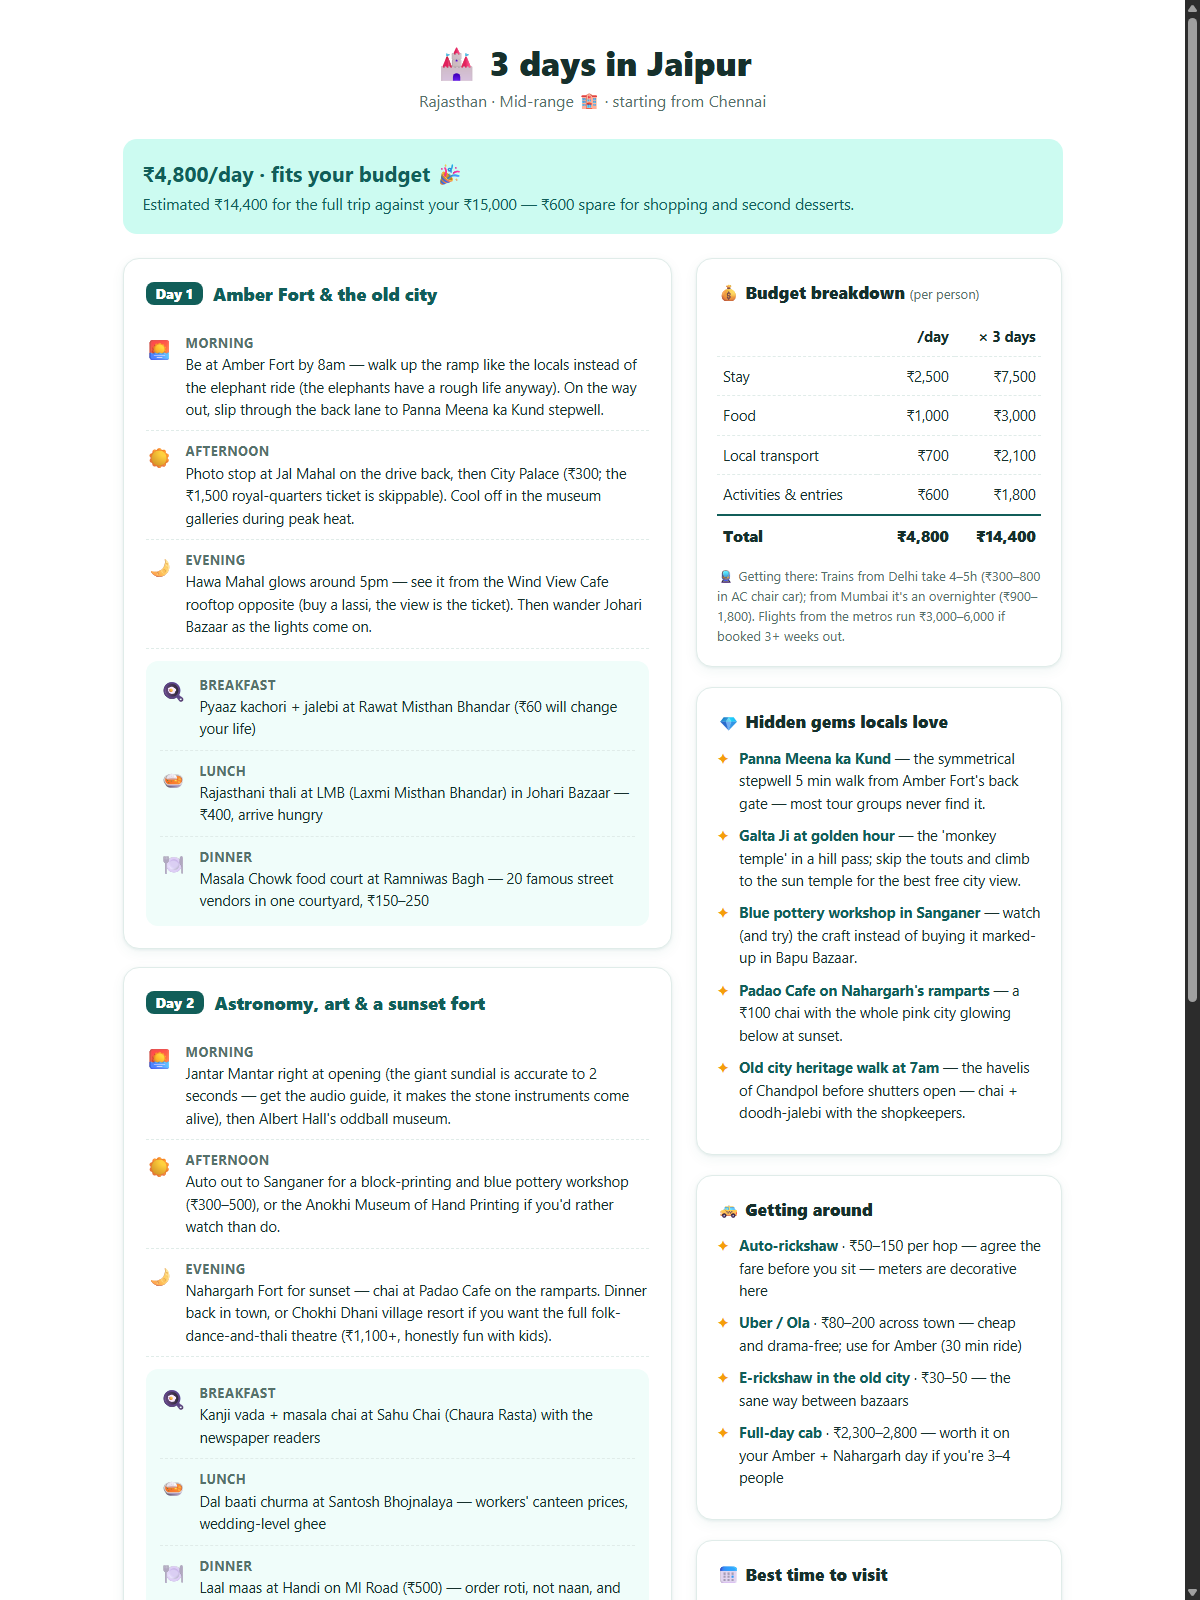
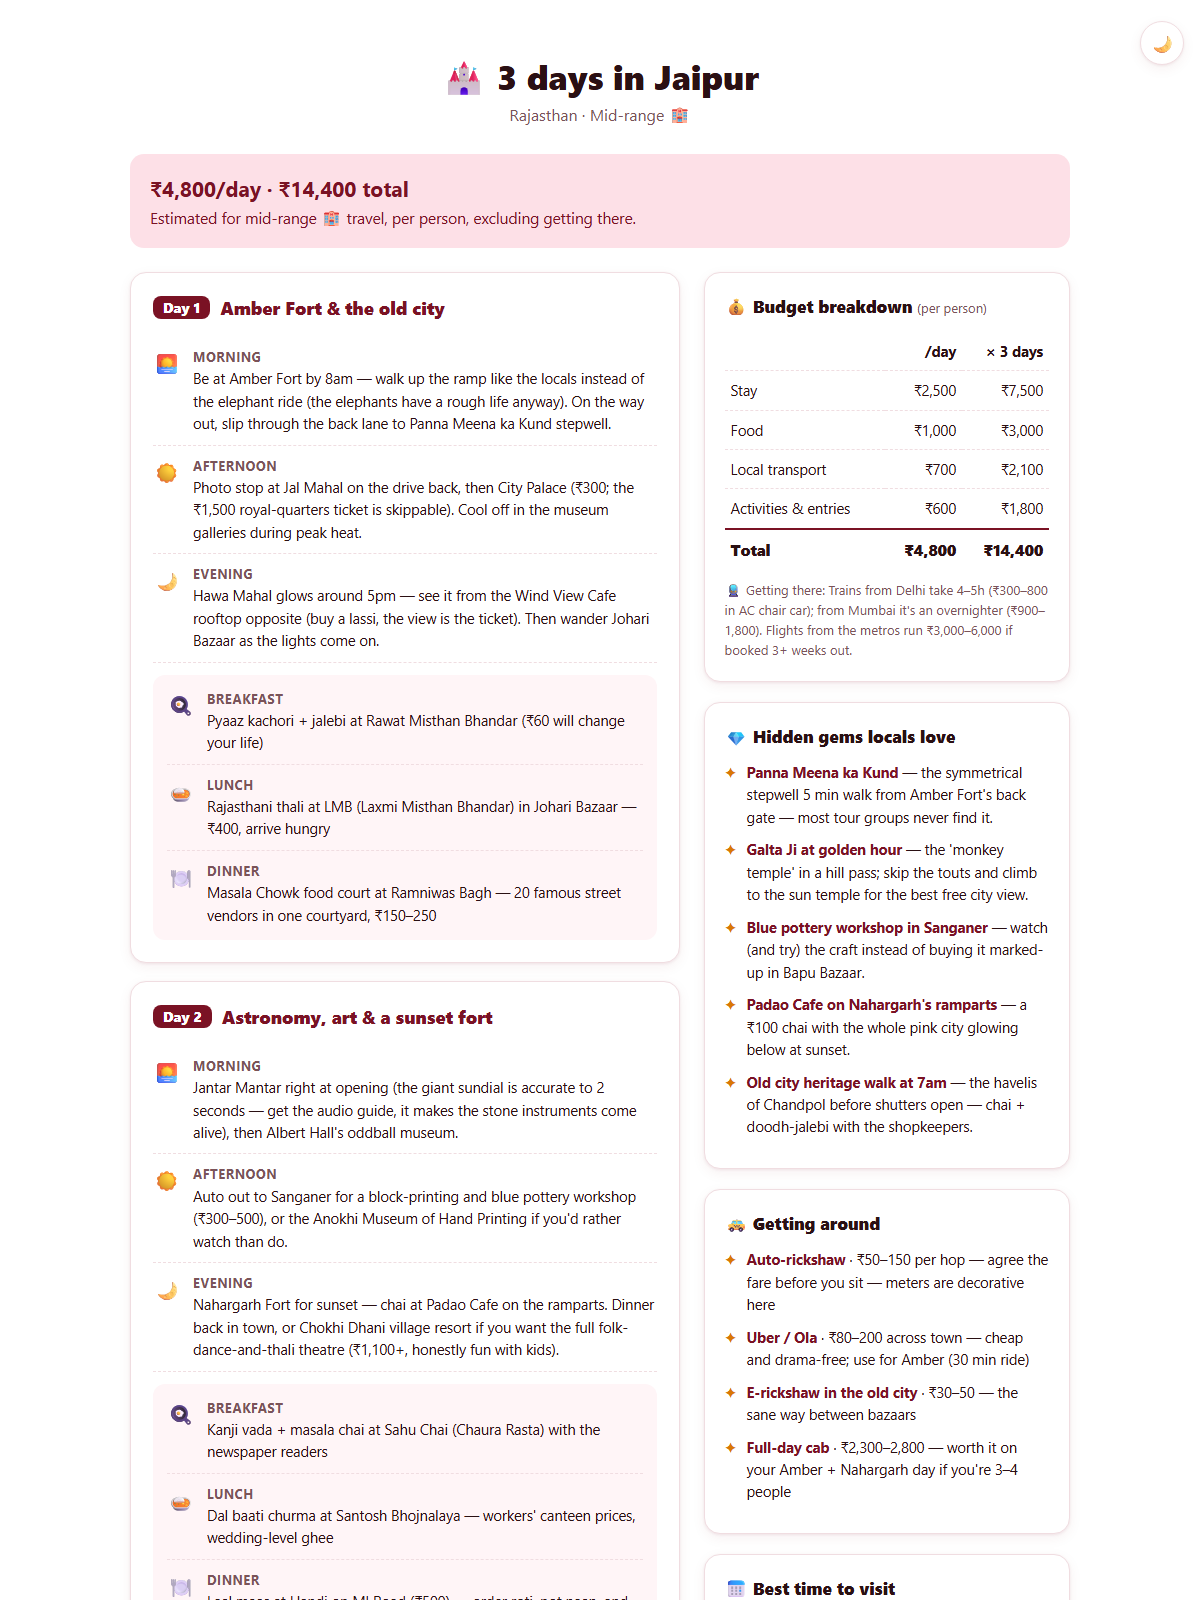
Rework theme to maroon and add light/dark mode toggle
Renames the color system to a maroon palette, introduces theme-aware
CSS variables (bg/card-bg/panel-bg) so cards and inputs adapt, and adds
a persisted light/dark toggle that defaults to system preference.
Updates README and screenshots to match.

diff --git a/India trip planner/index.html b/India trip planner/index.html
@@ -6,62 +6,89 @@
 <title>Safar Saathi — India Trip Planner</title>
 <style>
   :root {
-    --teal-800: #115e59;
-    --teal-600: #0d9488;
-    --teal-100: #ccfbf1;
-    --teal-50: #f0fdfa;
-    --saffron: #f59e0b;
-    --saffron-100: #fef3c7;
-    --saffron-800: #92400e;
+    --maroon-900: #4c0519;
+    --maroon-800: #7a1224;
+    --maroon-600: #b3123d;
+    --maroon-100: #fde0e7;
+    --maroon-50: #fff5f7;
+    --saffron: #d97706;
+    --saffron-100: #fef9c3;
+    --saffron-800: #854d0e;
     --red-100: #fee2e2;
     --red-800: #991b1b;
-    --ink: #16302c;
-    --muted: #55716b;
-    --border: #e0ece9;
-    --card-shadow: 0 1px 3px rgba(17, 94, 89, 0.08), 0 4px 14px rgba(17, 94, 89, 0.06);
+    --ink: #2a1013;
+    --muted: #7a5359;
+    --border: #f0dde1;
+    --bg: #ffffff;
+    --card-bg: #ffffff;
+    --panel-bg: #fdf8f9;
+    --card-shadow: 0 1px 3px rgba(122, 18, 36, 0.08), 0 4px 14px rgba(122, 18, 36, 0.06);
+  }
+  :root[data-theme="dark"] {
+    --maroon-900: #2a0810;
+    --maroon-800: #e11d48;
+    --maroon-600: #fb7185;
+    --maroon-100: #4a1420;
+    --maroon-50: #3a0f18;
+    --saffron: #f59e0b;
+    --saffron-100: #4a3510;
+    --saffron-800: #fde68a;
+    --red-100: #4a1616;
+    --red-800: #fca5a5;
+    --ink: #f3e4e7;
+    --muted: #c9a3ab;
+    --border: #4a2830;
+    --bg: #150a0c;
+    --card-bg: #1f1013;
+    --panel-bg: #241417;
+    --card-shadow: 0 1px 3px rgba(0, 0, 0, 0.4), 0 4px 14px rgba(0, 0, 0, 0.3);
   }
   * { box-sizing: border-box; margin: 0; padding: 0; }
-  html { scroll-behavior: smooth; }
-  body { font-family: -apple-system, BlinkMacSystemFont, "Segoe UI", Roboto, "Helvetica Neue", Arial, sans-serif; background: #fff; color: var(--ink); line-height: 1.55; }
+  html { scroll-behavior: smooth; color-scheme: light; }
+  html[data-theme="dark"] { color-scheme: dark; }
+  body { font-family: -apple-system, BlinkMacSystemFont, "Segoe UI", Roboto, "Helvetica Neue", Arial, sans-serif; background: var(--bg); color: var(--ink); line-height: 1.55; transition: background-color .2s ease, color .2s ease; }
   .wrap { max-width: 980px; margin: 0 auto; padding: 0 20px; }
 
-  header.hero { padding: 56px 0 40px; text-align: center; background: linear-gradient(180deg, var(--teal-50) 0%, #fff 100%); }
+  .theme-toggle { position: fixed; top: 16px; right: 16px; z-index: 20; width: 44px; height: 44px; border-radius: 999px; background: var(--card-bg); border: 1.5px solid var(--border); box-shadow: var(--card-shadow); font-size: 19px; display: flex; align-items: center; justify-content: center; transition: background-color .2s ease, border-color .2s ease; }
+  .theme-toggle:hover { background: var(--maroon-50); }
+
+  header.hero { padding: 56px 0 40px; text-align: center; background: linear-gradient(180deg, var(--maroon-50) 0%, var(--bg) 100%); transition: background .2s ease; }
   .hero .logo { font-size: 44px; }
   .hero h1 { font-size: clamp(28px, 5vw, 42px); font-weight: 800; letter-spacing: -0.02em; margin-top: 8px; }
-  .hero h1 em { font-style: normal; color: var(--teal-800); }
+  .hero h1 em { font-style: normal; color: var(--maroon-800); }
   .hero p.tag { max-width: 580px; margin: 14px auto 0; color: var(--muted); font-size: 17px; }
   .hero .cta { margin-top: 26px; }
 
   button { font: inherit; cursor: pointer; border: none; }
-  .btn-primary { background: var(--teal-800); color: #fff; font-weight: 700; padding: 14px 28px; border-radius: 12px; font-size: 17px; min-height: 48px; box-shadow: 0 2px 8px rgba(17,94,89,.25); transition: background .15s, transform .1s; }
-  .btn-primary:hover { background: var(--teal-600); }
+  .btn-primary { background: var(--maroon-800); color: #fff; font-weight: 700; padding: 14px 28px; border-radius: 12px; font-size: 17px; min-height: 48px; box-shadow: 0 2px 8px rgba(122,18,36,.35); transition: background .15s, transform .1s; }
+  .btn-primary:hover { background: var(--maroon-600); }
   .btn-primary:active { transform: scale(.98); }
-  .btn-ghost { background: #fff; color: var(--teal-800); font-weight: 600; padding: 10px 18px; border-radius: 10px; border: 1.5px solid var(--teal-800); min-height: 44px; }
-  .btn-ghost:hover { background: var(--teal-50); }
+  .btn-ghost { background: var(--card-bg); color: var(--maroon-800); font-weight: 600; padding: 10px 18px; border-radius: 10px; border: 1.5px solid var(--maroon-800); min-height: 44px; }
+  .btn-ghost:hover { background: var(--maroon-50); }
 
   section { padding: 36px 0; }
-  .card { background: #fff; border: 1px solid var(--border); border-radius: 16px; box-shadow: var(--card-shadow); padding: 26px 22px; }
+  .card { background: var(--card-bg); border: 1px solid var(--border); border-radius: 16px; box-shadow: var(--card-shadow); padding: 26px 22px; transition: background-color .2s ease, border-color .2s ease; }
   .card h2 { font-size: 22px; font-weight: 800; margin-bottom: 4px; }
   .card p.sub { color: var(--muted); font-size: 14.5px; margin-bottom: 20px; }
   .field { margin-bottom: 22px; }
   .field > label { display: block; font-weight: 700; font-size: 15px; margin-bottom: 8px; }
   .hint { font-size: 13px; color: var(--muted); margin-top: 6px; }
 
-  input[type="text"], input[type="number"] { padding: 12px 14px; font-size: 16px; border: 1.5px solid var(--border); border-radius: 12px; outline: none; }
-  input:focus { border-color: var(--teal-600); box-shadow: 0 0 0 3px var(--teal-100); }
+  input[type="text"], input[type="number"], input[type="password"] { padding: 12px 14px; font-size: 16px; border: 1.5px solid var(--border); border-radius: 12px; outline: none; background: var(--card-bg); color: var(--ink); }
+  input:focus { border-color: var(--maroon-600); box-shadow: 0 0 0 3px var(--maroon-100); }
   #city-input, #from-input { width: 100%; max-width: 420px; }
   #budget-input { width: 180px; }
 
   .stepper { display: inline-flex; align-items: center; border: 1.5px solid var(--border); border-radius: 12px; overflow: hidden; }
-  .stepper button { width: 48px; height: 48px; background: var(--teal-50); color: var(--teal-800); font-size: 22px; font-weight: 700; }
-  .stepper button:hover { background: var(--teal-100); }
+  .stepper button { width: 48px; height: 48px; background: var(--maroon-50); color: var(--maroon-800); font-size: 22px; font-weight: 700; }
+  .stepper button:hover { background: var(--maroon-100); }
   .stepper .val { width: 64px; text-align: center; font-size: 20px; font-weight: 800; }
 
   .style-chips, .city-chips { display: flex; flex-wrap: wrap; gap: 8px; margin-top: 10px; }
-  .style-chips button, .city-chips button { background: #fff; border: 1.5px solid var(--border); color: var(--ink); padding: 10px 16px; border-radius: 999px; font-size: 14.5px; font-weight: 600; min-height: 44px; }
-  .style-chips button.on { background: var(--teal-800); border-color: var(--teal-800); color: #fff; }
-  .city-chips button { border-style: dashed; border-color: var(--teal-600); color: var(--teal-800); }
-  .city-chips button:hover, .style-chips button:hover:not(.on) { background: var(--teal-50); }
+  .style-chips button, .city-chips button { background: var(--card-bg); border: 1.5px solid var(--border); color: var(--ink); padding: 10px 16px; border-radius: 999px; font-size: 14.5px; font-weight: 600; min-height: 44px; }
+  .style-chips button.on { background: var(--maroon-800); border-color: var(--maroon-800); color: #fff; }
+  .city-chips button { border-style: dashed; border-color: var(--maroon-600); color: var(--maroon-800); }
+  .city-chips button:hover, .style-chips button:hover:not(.on) { background: var(--maroon-50); }
 
   .notice { background: var(--saffron-100); color: var(--saffron-800); border-radius: 10px; padding: 12px 14px; font-size: 14px; margin: 14px 0; }
   .notice.err { background: var(--red-100); color: var(--red-800); }
@@ -72,53 +99,55 @@
   .trip-head h2 { font-size: clamp(24px, 4vw, 34px); font-weight: 800; }
   .trip-head p { color: var(--muted); }
   .banner { border-radius: 14px; padding: 18px 20px; margin-bottom: 24px; font-size: 15.5px; }
-  .banner.ok { background: var(--teal-100); color: var(--teal-800); }
+  .banner.ok { background: var(--maroon-100); color: var(--maroon-800); }
   .banner.over { background: var(--red-100); color: var(--red-800); }
   .banner strong { font-size: 21px; display: block; margin-bottom: 2px; }
 
-  .day-card { background: #fff; border: 1px solid var(--border); border-radius: 16px; box-shadow: var(--card-shadow); padding: 22px; margin-bottom: 18px; }
-  .day-card h3 { font-size: 18px; font-weight: 800; color: var(--teal-800); margin-bottom: 14px; }
-  .day-card h3 .dnum { background: var(--teal-800); color: #fff; border-radius: 8px; padding: 2px 10px; margin-right: 10px; font-size: 14px; vertical-align: 2px; }
+  .day-card { background: var(--card-bg); border: 1px solid var(--border); border-radius: 16px; box-shadow: var(--card-shadow); padding: 22px; margin-bottom: 18px; }
+  .day-card h3 { font-size: 18px; font-weight: 800; color: var(--maroon-800); margin-bottom: 14px; }
+  .day-card h3 .dnum { background: var(--maroon-800); color: #fff; border-radius: 8px; padding: 2px 10px; margin-right: 10px; font-size: 14px; vertical-align: 2px; }
   .slot { display: flex; gap: 12px; padding: 10px 0; border-bottom: 1px dashed var(--border); }
   .slot:last-child { border-bottom: none; }
   .slot .ico { font-size: 20px; flex: 0 0 28px; text-align: center; }
   .slot .txt b { display: block; font-size: 13px; text-transform: uppercase; letter-spacing: .04em; color: var(--muted); }
   .slot .txt { font-size: 14.5px; }
-  .meals { background: var(--teal-50); border-radius: 12px; padding: 4px 14px; margin-top: 12px; }
+  .meals { background: var(--maroon-50); border-radius: 12px; padding: 4px 14px; margin-top: 12px; }
 
   .results-grid { display: grid; grid-template-columns: 1fr; gap: 24px; }
   @media (min-width: 820px) { .results-grid { grid-template-columns: 3fr 2fr; align-items: start; } }
-  .side-card { background: #fff; border: 1px solid var(--border); border-radius: 16px; box-shadow: var(--card-shadow); padding: 20px; margin-bottom: 20px; }
+  .side-card { background: var(--card-bg); border: 1px solid var(--border); border-radius: 16px; box-shadow: var(--card-shadow); padding: 20px; margin-bottom: 20px; }
   .side-card h3 { font-size: 17px; font-weight: 800; margin-bottom: 12px; }
   .side-card ul { list-style: none; }
   .side-card li { margin-bottom: 10px; font-size: 14.5px; padding-left: 22px; position: relative; }
   .side-card li::before { content: "✦"; position: absolute; left: 0; color: var(--saffron); }
-  .side-card li b { color: var(--teal-800); }
+  .side-card li b { color: var(--maroon-800); }
   .side-card.avoid li::before { content: "⚠"; }
 
   table.budget { width: 100%; border-collapse: collapse; font-size: 14.5px; }
   table.budget td, table.budget th { padding: 8px 6px; text-align: right; border-bottom: 1px dashed var(--border); }
   table.budget td:first-child, table.budget th:first-child { text-align: left; }
-  table.budget tr.total td { font-weight: 800; border-top: 2px solid var(--teal-800); border-bottom: none; font-size: 15.5px; }
+  table.budget tr.total td { font-weight: 800; border-top: 2px solid var(--maroon-800); border-bottom: none; font-size: 15.5px; }
   .table-scroll { overflow-x: auto; }
 
   .result-actions { display: flex; gap: 10px; margin-top: 8px; flex-wrap: wrap; }
 
-  details.settings { margin-top: 28px; border: 1px solid var(--border); border-radius: 12px; padding: 14px 18px; background: #fafcfb; }
+  details.settings { margin-top: 28px; border: 1px solid var(--border); border-radius: 12px; padding: 14px 18px; background: var(--panel-bg); }
   details.settings summary { cursor: pointer; font-weight: 700; font-size: 14.5px; color: var(--muted); }
   details.settings .inner { margin-top: 14px; }
   details.settings input { width: 100%; max-width: 420px; padding: 10px 12px; border: 1.5px solid var(--border); border-radius: 10px; font-size: 14px; }
   details.settings .row { display: flex; gap: 8px; margin-top: 10px; flex-wrap: wrap; }
   .key-status { font-size: 13px; margin-top: 8px; font-weight: 600; }
-  .key-status.on { color: var(--teal-800); }
+  .key-status.on { color: var(--maroon-800); }
   .key-status.off { color: var(--muted); }
 
   footer { text-align: center; color: var(--muted); font-size: 13px; padding: 30px 0 40px; }
-  .spin { display: inline-block; width: 16px; height: 16px; border: 2.5px solid var(--teal-100); border-top-color: var(--teal-800); border-radius: 50%; animation: sp .7s linear infinite; vertical-align: -3px; margin-right: 6px; }
+  .spin { display: inline-block; width: 16px; height: 16px; border: 2.5px solid var(--maroon-100); border-top-color: var(--maroon-800); border-radius: 50%; animation: sp .7s linear infinite; vertical-align: -3px; margin-right: 6px; }
   @keyframes sp { to { transform: rotate(360deg); } }
 </style>
 </head>
 <body>
+
+<button class="theme-toggle" id="theme-toggle" type="button" aria-label="Toggle dark mode" onclick="toggleTheme()"></button>
 
 <header class="hero">
   <div class="wrap">
@@ -208,6 +237,26 @@
 
 <script>
 "use strict";
+
+/* =====================================================================
+   THEME — light/dark, remembered per device, defaults to system preference
+   ===================================================================== */
+const LS_THEME = "stp_theme";
+function applyTheme(theme) {
+  document.documentElement.setAttribute("data-theme", theme);
+  const btn = document.getElementById("theme-toggle");
+  btn.textContent = theme === "dark" ? "☀️" : "🌙";
+}
+function toggleTheme() {
+  const next = document.documentElement.getAttribute("data-theme") === "dark" ? "light" : "dark";
+  localStorage.setItem(LS_THEME, next);
+  applyTheme(next);
+}
+(function initTheme() {
+  const saved = localStorage.getItem(LS_THEME);
+  const prefersDark = window.matchMedia && window.matchMedia("(prefers-color-scheme: dark)").matches;
+  applyTheme(saved || (prefersDark ? "dark" : "light"));
+})();
 
 /* =====================================================================
    CITY DATABASE — 6 destinations, written like a local friend would
@@ -771,7 +820,7 @@ function renderPlan() {
   const budgetPerDay = parseFloat(document.getElementById("budget-input").value);
 
   document.getElementById("trip-head").innerHTML =
-    `<h2>${city.emoji} ${days} day${days > 1 ? "s" : ""} in ${city.name}${city.ai ? " <span style='font-size:14px;background:var(--teal-100);color:var(--teal-800);border-radius:8px;padding:2px 8px;vertical-align:middle'>AI planned</span>" : ""}</h2>
+    `<h2>${city.emoji} ${days} day${days > 1 ? "s" : ""} in ${city.name}${city.ai ? " <span style='font-size:14px;background:var(--maroon-100);color:var(--maroon-800);border-radius:8px;padding:2px 8px;vertical-align:middle'>AI planned</span>" : ""}</h2>
      <p>${city.state ? city.state + " · " : ""}${STYLES[travelStyle]}${from ? " · starting from " + from : ""}</p>`;
 
   // budget banner

diff --git a/India trip planner/README.md b/India trip planner/README.md
@@ -14,12 +14,13 @@ Pick a destination, trip length, travel style (budget / mid-range / luxury), and
 - 🚕 **Transport between locations with costs** — plus a rough getting-there estimate from your starting city
 - 💰 **Budget breakdown** per day and for the full trip, checked against your budget with style-downgrade suggestions
 - 📅 **Best time to visit and what to avoid** — seasons, scams, and crowd traps, stated plainly
+- 🌗 **Light / dark mode** — toggle in the top-right corner; remembers your choice and defaults to your system preference
 
 ## Screenshots
 
-| Plan your trip | Your itinerary |
-|---|---|
-| ![Home screen](screenshots/home.png) | ![Itinerary screen](screenshots/itinerary.png) |
+| Plan your trip | Your itinerary | Dark mode |
+|---|---|---|
+| ![Home screen](screenshots/home.png) | ![Itinerary screen](screenshots/itinerary.png) | ![Dark mode](screenshots/dark.png) |
 
 📄 Full walkthrough of the site as a PDF: [index.pdf](index.pdf)
 
@@ -37,3 +38,4 @@ Six destinations ship with deep, hand-curated itineraries: **Jaipur, Goa, Varana
 - Fuzzy destination matching with aliases ("pondy" → Pondicherry, "banaras" → Varanasi)
 - Per-style cost model (budget/mid/luxury tiers per city) with live budget-fit checking
 - Claude API (`claude-opus-4-8`) with JSON-schema structured outputs for the AI fallback
+- Theme-aware CSS custom properties for instant light/dark switching, persisted in `localStorage`